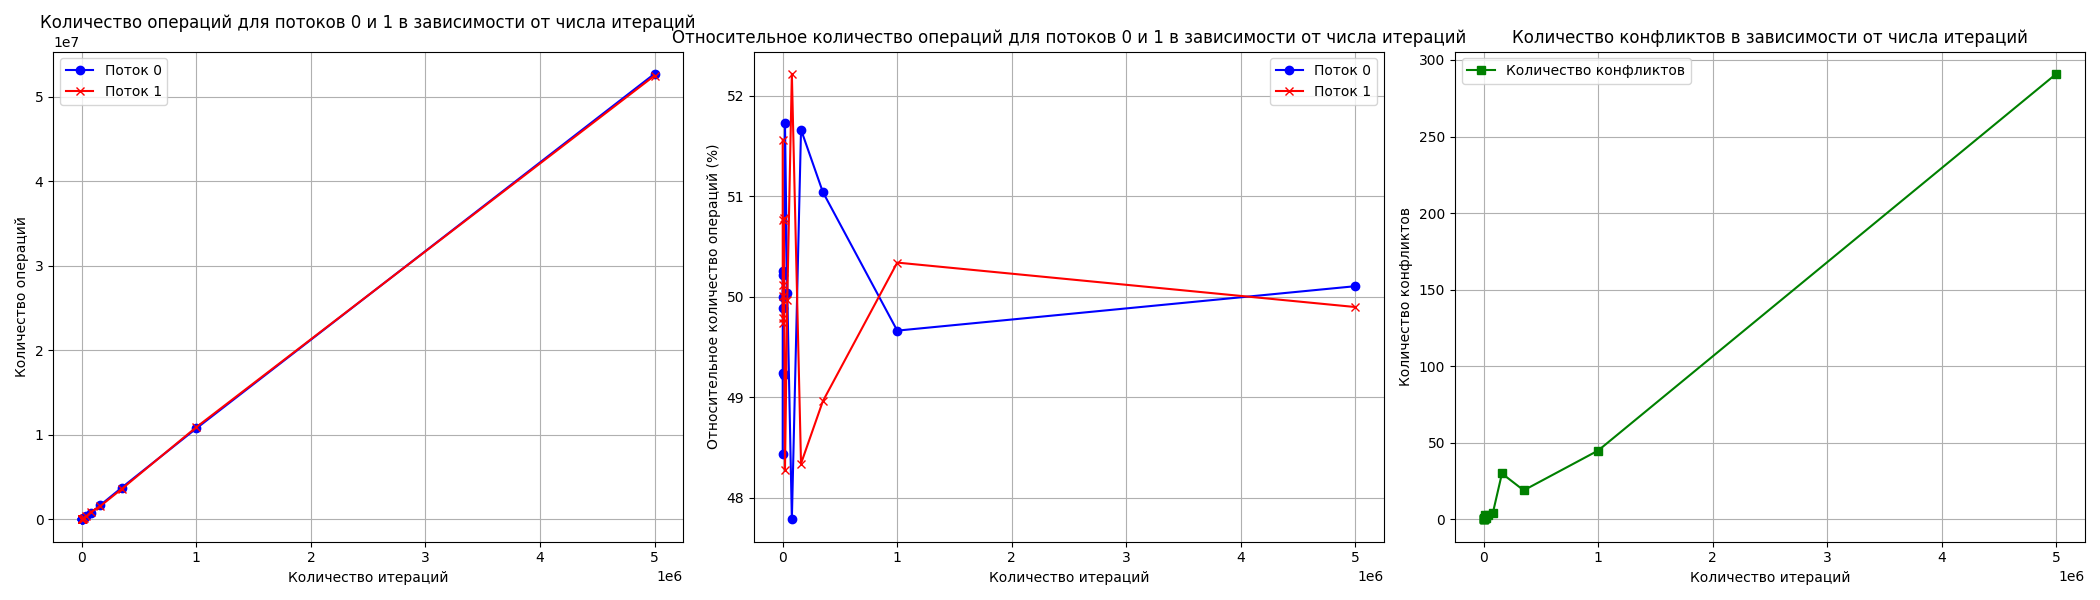
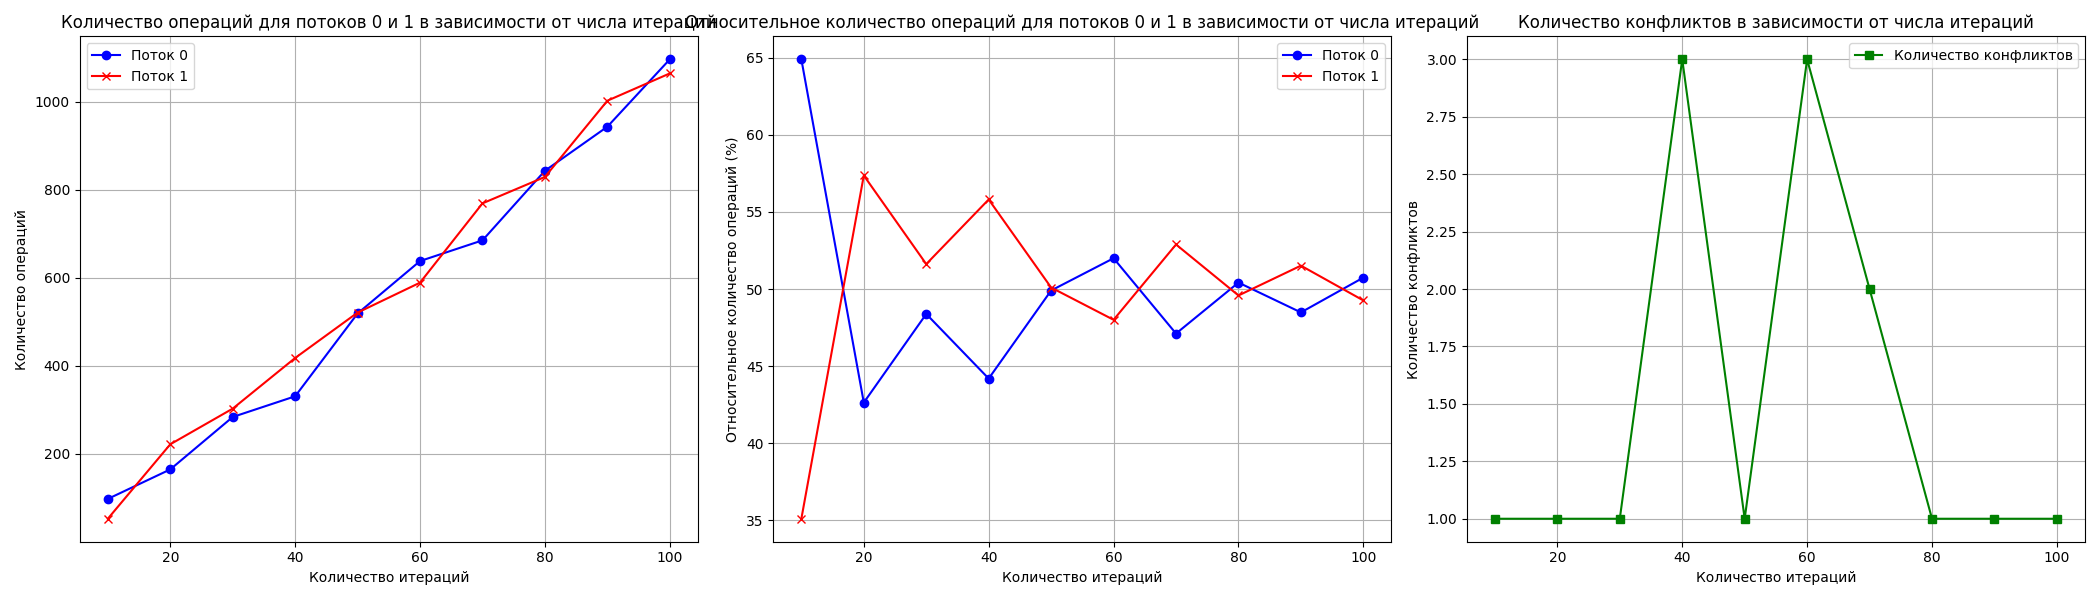
update

diff --git a/peterson/statistics.c b/peterson/statistics.c
@@ -9,7 +9,7 @@
 
 #define NUM_THREADS 2 // Количество потоков
 #define WAIT_TIME 10 // Время ожидания в "операциях"
-#define MAX_TESTS 14 // Максимальное количество тестов
+#define MAX_TESTS 10 // Максимальное количество тестов
 #define MAX_ITERATIONS 2500 // Максимальное количество итераций для теста
 
 int want[NUM_THREADS] = {0, 0}; // Массив флагов для потоков
@@ -21,12 +21,17 @@ volatile int operation_cnt_id_one = 0; // Счетчик операций для
 
 static int lim[ 16 ] = { 1, 13, 12, 9, 7, 15, 4, 3, 2,  11, 14, 5, 6, 8, 10, 0 };
 
+volatile int flag1, flag2;
 
 void *thread_function(void *arg) {
+
     int id = *(int *)arg;
     int n = 1231;
 
     int iterations = *(int *)(arg + sizeof(int));
+
+    __atomic_fetch_add( &flag1, 1, __ATOMIC_SEQ_CST );
+    while (!flag2) {}
 
     for (int i = 0; i < iterations; ++i) {
         // Выполнение операций
@@ -69,7 +74,9 @@ void *thread_function(void *arg) {
 
 void run_tests_1() {
     FILE *file = fopen("results.txt", "w");
-    int iterations_arr[MAX_TESTS] = {100, 200, 500, 1000, 2000, 5000, 10000, 20000, 40000, 80000, 160000, 350000, 1000000, 5000000};
+    int iterations_arr[MAX_TESTS] = {10, 20, 30, 40, 50, 60, 70, 80, 90, 100};
+//    int iterations_arr[MAX_TESTS] = {100, 200, 500, 1000, 2000, 5000, 10000, 20000, 40000, 80000, 160000, 350000, 1000000, 5000000};
+//    int iterations_arr[MAX_TESTS] = {1000000, 2000000, 3000000, 4000000, 5000000, 6000000, 7000000};
 
     for (int t = 0; t < MAX_TESTS; t++) {
         int iterations = iterations_arr[t];
@@ -82,9 +89,13 @@ void run_tests_1() {
         // Передаем количество итераций в аргументах потокам
         int thread_args[NUM_THREADS][2] = {{0, iterations}, {1, iterations}};
 
+        flag1 = flag2 = 0;
         for (int i = 0; i < NUM_THREADS; i++) {
             pthread_create(&threads[i], NULL, thread_function, (void*)thread_args[i]);
         }
+
+        while ( flag1 != 2 ) {}
+        flag2=1;
 
         for (int i = 0; i < NUM_THREADS; i++) {
             pthread_join(threads[i], NULL);
